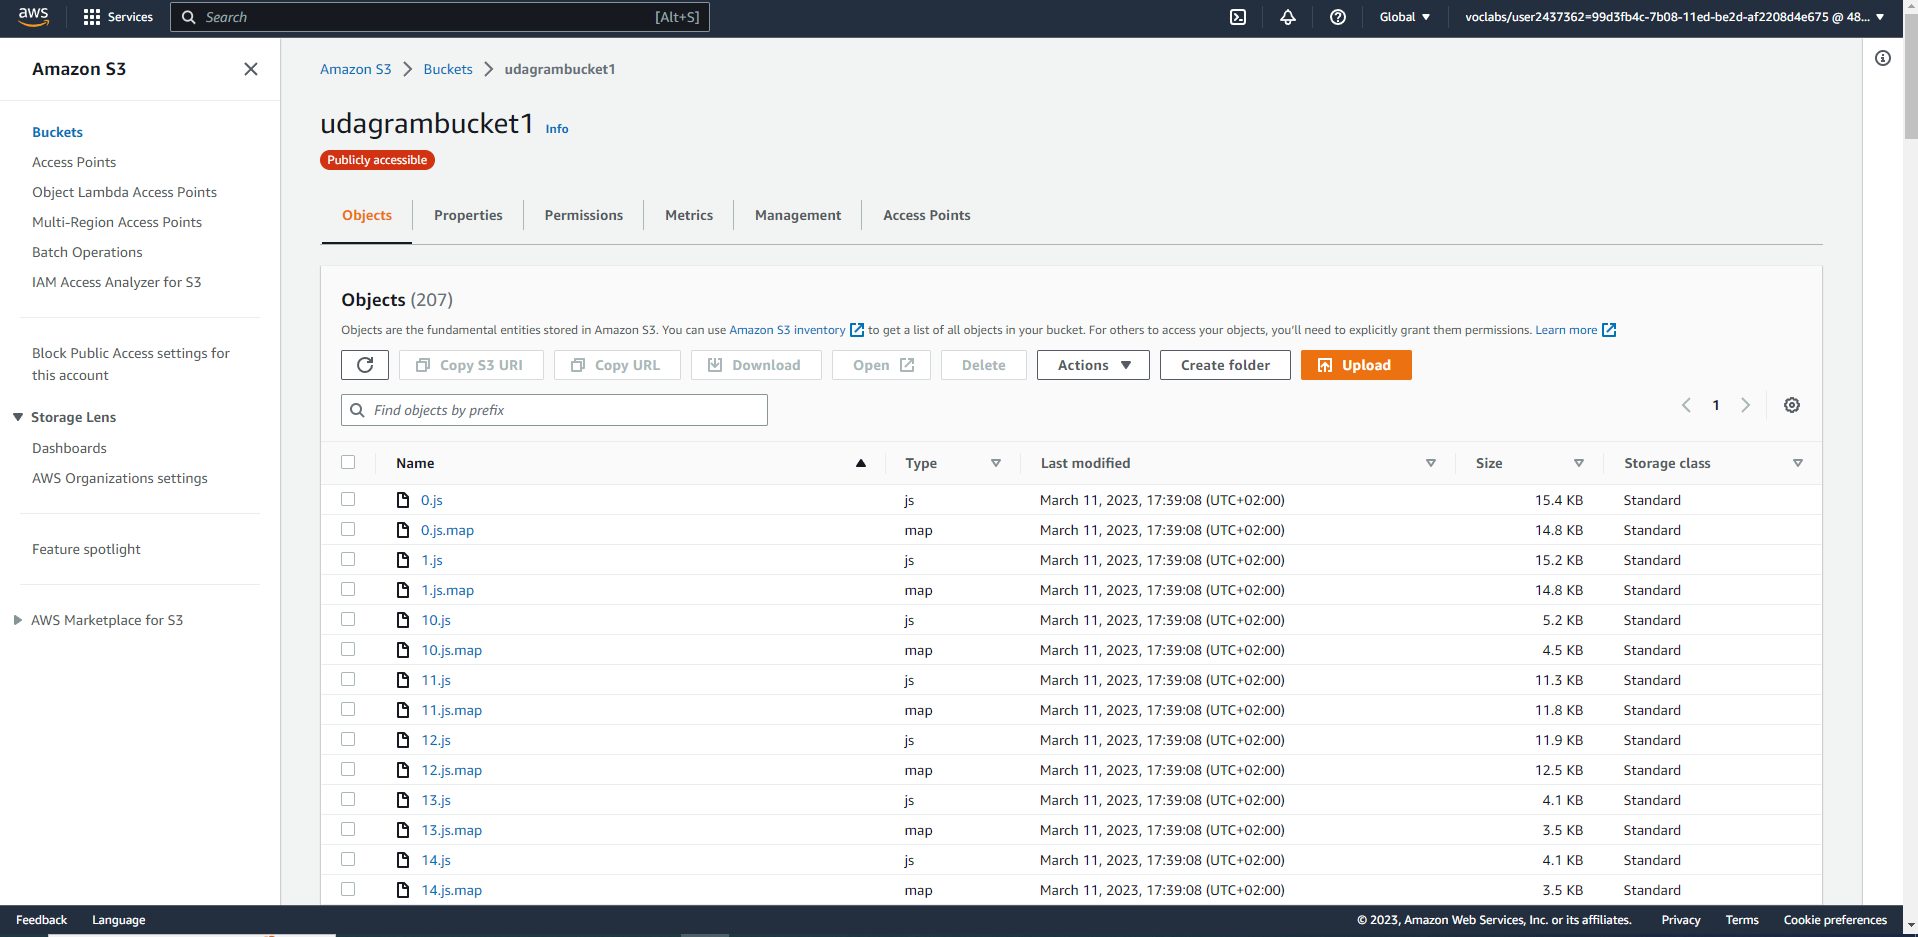
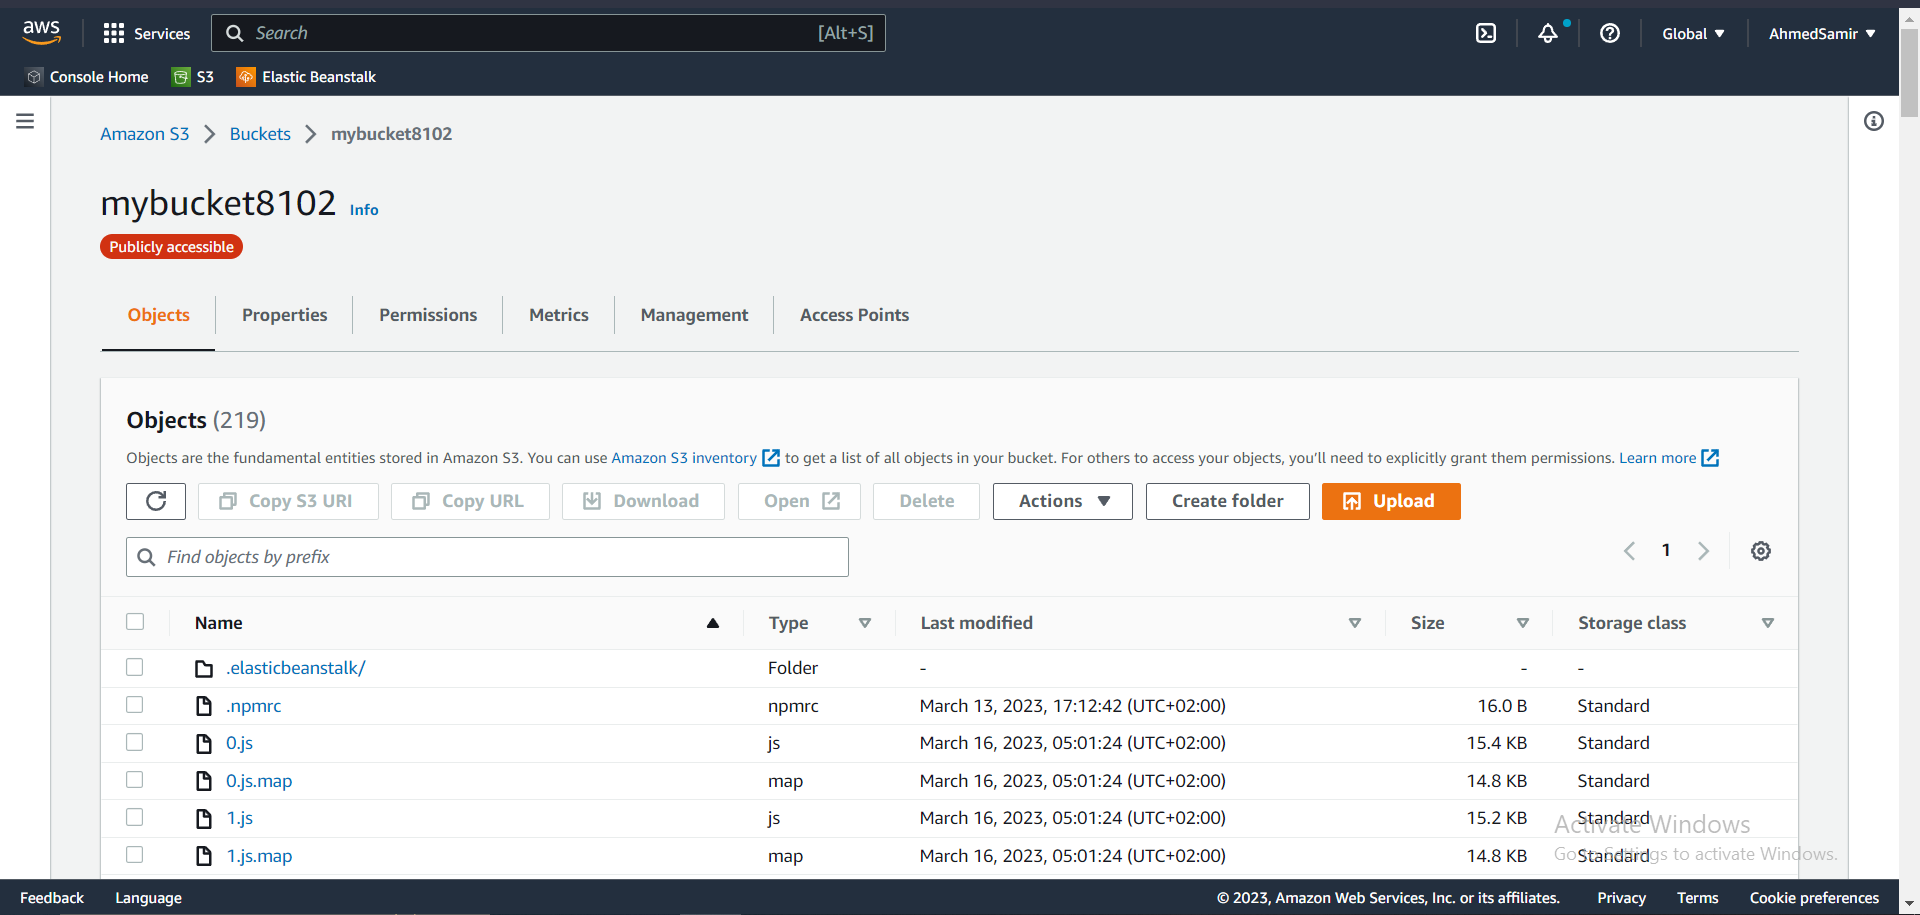
Added docs and screenshots

diff --git a/README.md b/README.md
@@ -1,10 +1,10 @@
 # Hosting a Full-Stack Application
-This a full-stack application to perform deployment using RDS, S3 an ElsticBeanstalk. Screenshots of each service working is in screenshots file.
-It also have CI/CD pipeline successfully running with screenshot provided.
-link to application: http://udagrambucket1.s3-website-us-east-1.amazonaws.com
+This full-stack application uses AWS services such as RDS, S3 an ElsticBeanstalk, and it has a functioning pipeline.
+Screenshots has been added in the screenshots folder. 
+Application link: http://mybucket8102.s3-website-us-east-1.amazonaws.com
 
 # Udagram
-The udagram application is a fairly simple application that includes all the major components of a Full-Stack web application.
+A simple applecation that can rejester/login users and add new posts
 
 ### Dependencies
 

diff --git a/documents/infrastructure.md b/documents/infrastructure.md
@@ -3,9 +3,9 @@
 ```
 - User send input into fronend in S3
 
-- Frontend take that request to backend in EB environment to retrive data from database in RDS
+- Frontend takes that request to backend in Elastic Beanstalk environment to retrive data from database in RDS
 
-- Data is sent to backend that send response to frontend to show it to the user.
+- Data is sent to backend that sends response to frontend to show it to the user.
 
 
 ```

diff --git a/documents/pipeline.md b/documents/pipeline.md
@@ -3,8 +3,7 @@
 ```
 - Pipeline setup environments node, rb and aws-cli in orbs.
 
-- The jobs which are commands that first build the application, then deploy it when it ensures that it works successfully.
+- The pipeline first install the dependencies, build the application, then deploy it when it ensures that it works successfully.
 
-- The workflow that arrange the steps and make a holder for approval deployment
 
 ```
